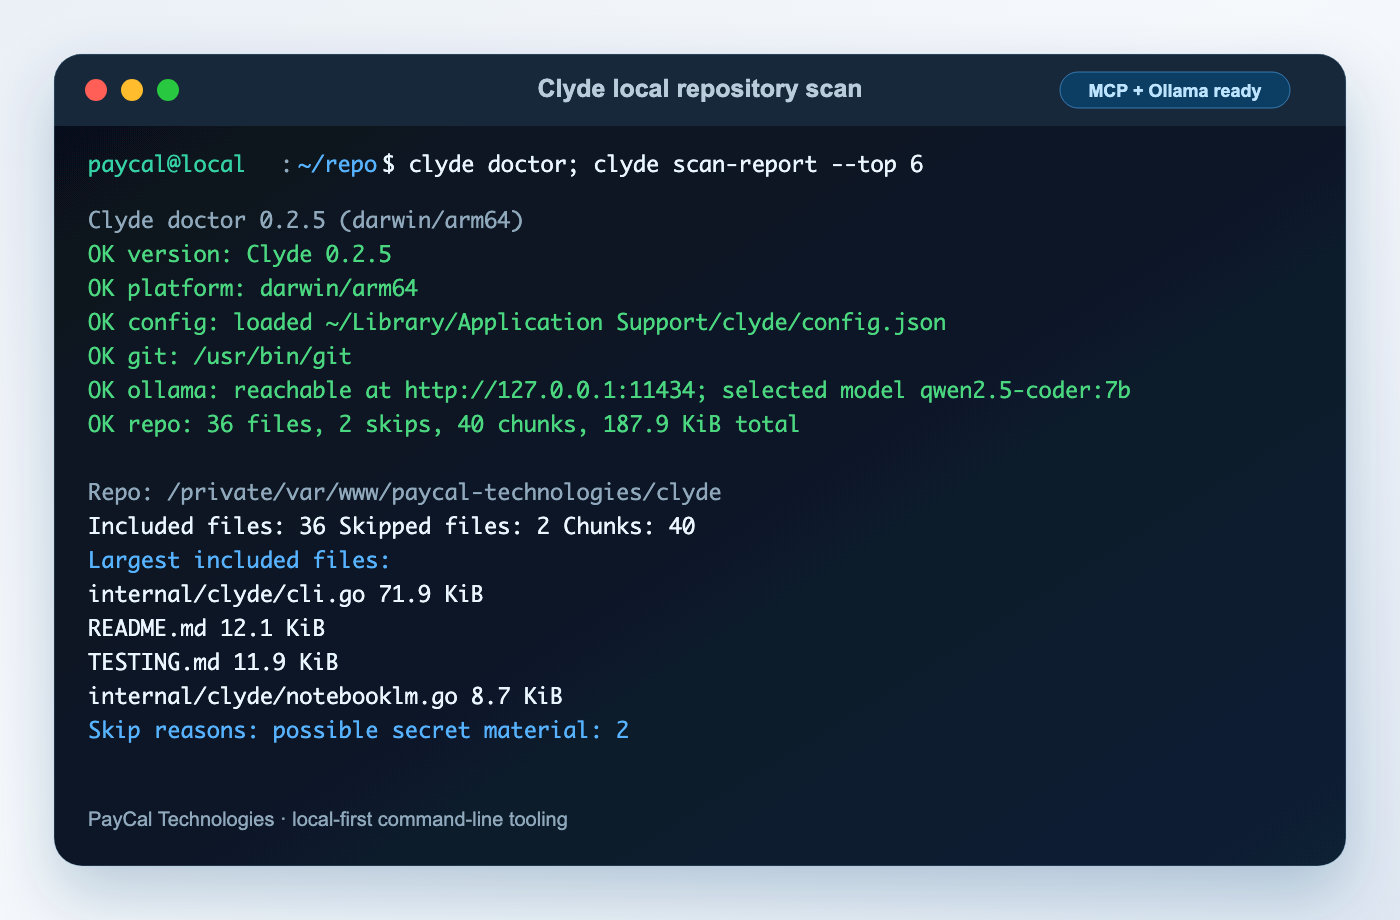
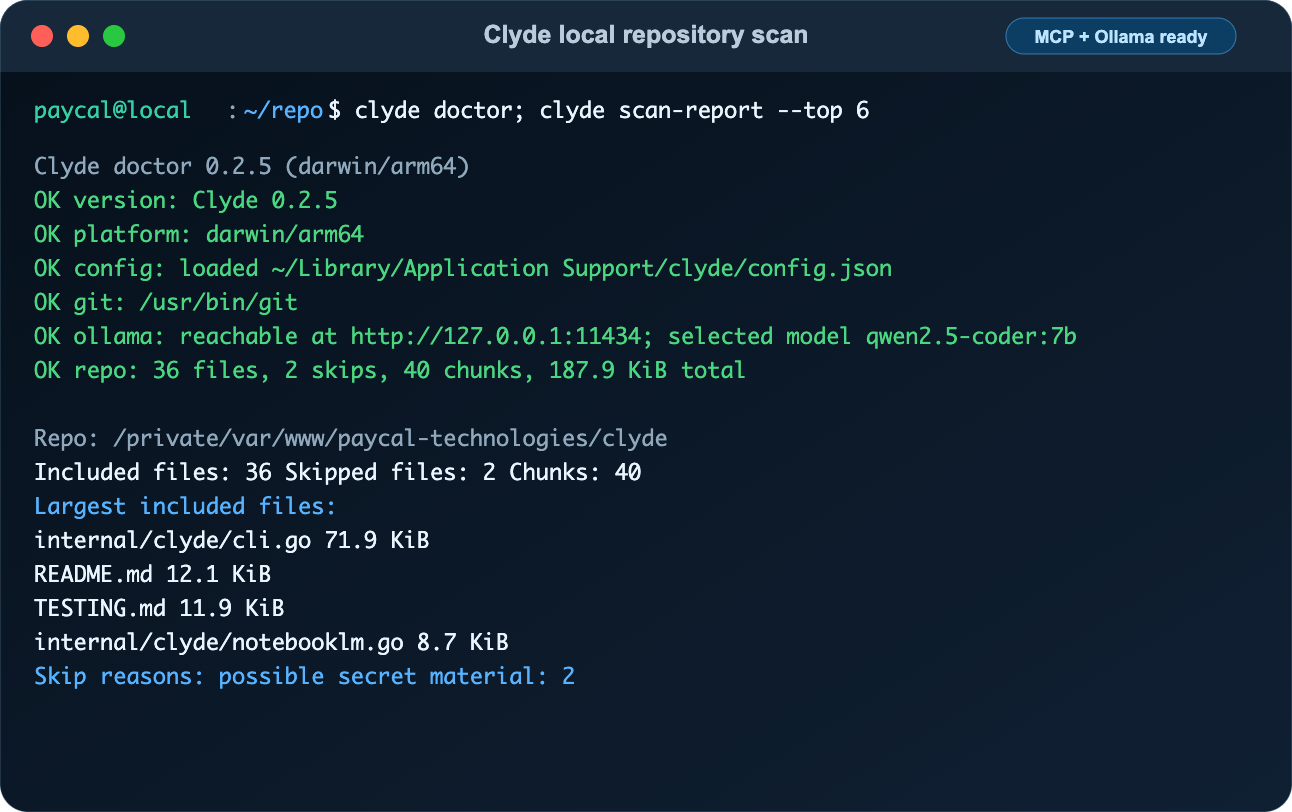
Remove testing terminal image padding

diff --git a/help/testing.html b/help/testing.html
@@ -10,7 +10,7 @@
     *{box-sizing:border-box}body{margin:0;background:var(--bg);color:var(--text);font:18px/1.6 ui-sans-serif,system-ui,-apple-system,BlinkMacSystemFont,"Segoe UI",sans-serif}main{max-width:980px;margin:0 auto;padding:48px 24px 72px}a{color:var(--accent)}h1{font-size:clamp(2.2rem,5vw,3.4rem);line-height:1.05;margin:0 0 12px}h2{margin-top:42px}.summary{color:var(--muted);font-size:1.12rem;max-width:72ch}.meta{display:grid;grid-template-columns:repeat(auto-fit,minmax(180px,1fr));gap:12px;margin:24px 0}.meta div,section,table{border:1px solid var(--line);border-radius:8px;background:var(--panel)}.meta div{padding:14px}.meta strong{display:block;color:var(--muted);font-size:.78rem;text-transform:uppercase;letter-spacing:.06em}section{padding:18px;margin:16px 0}pre{overflow:auto;background:var(--code-bg);color:var(--code-text);border-radius:8px;padding:16px}code{font-family:ui-monospace,SFMono-Regular,Menlo,Consolas,"Liberation Mono",monospace}table{width:100%;border-collapse:separate;border-spacing:0;overflow:hidden}th,td{text-align:left;vertical-align:top;border-bottom:1px solid var(--line);padding:10px 12px}tr:last-child th,tr:last-child td{border-bottom:0}th{color:var(--muted)}.links{display:flex;flex-wrap:wrap;gap:10px 18px;margin:24px 0}.footer{margin-top:48px;color:var(--muted);font-size:.95rem}
       .terminal-showcase{margin:24px 0}.terminal-showcase img{display:block;width:100%;height:auto;border:1px solid var(--line);border-radius:8px;box-shadow:0 16px 36px rgba(0,60,110,.16);background:var(--panel)}.terminal-showcase figcaption{margin-top:8px;color:var(--muted);font-size:.95rem}
   
-      .terminal-showcase{width:100%;max-width:100%;overflow:hidden}.terminal-showcase img{max-width:100%;height:auto}.lightbox-trigger{display:block;width:100%;max-width:100%;padding:0;border:0;background:transparent;color:inherit;text-align:inherit;cursor:zoom-in}.lightbox-trigger img{width:100%;max-width:100%;height:auto}.image-lightbox[hidden]{display:none}.image-lightbox{position:fixed;inset:0;z-index:1000;display:grid;place-items:center;padding:6px;background:rgba(3,10,18,.82)}.image-lightbox figure{margin:0;max-width:calc(100vw - 12px);max-height:calc(100vh - 12px)}.image-lightbox img{display:block;width:auto;max-width:100%;max-height:calc(100vh - 48px);height:auto;border:1px solid rgba(255,255,255,.18);border-radius:8px;box-shadow:0 24px 80px rgba(0,0,0,.5);background:#fff}.image-lightbox figcaption{margin-top:10px;color:#eaf6ff;text-align:center;font-size:.95rem;line-height:1.45}.image-lightbox-close{position:fixed;top:8px;right:8px;min-width:42px;min-height:42px;border:1px solid rgba(255,255,255,.28);border-radius:8px;background:rgba(8,17,29,.86);color:#eaf6ff;font:1.6rem/1 ui-sans-serif,system-ui,sans-serif;cursor:pointer}body.lightbox-open{overflow:hidden}
+      .terminal-showcase{width:100%;max-width:100%;overflow:hidden}.terminal-showcase img{max-width:100%;height:auto}.lightbox-trigger{display:block;width:100%;max-width:100%;padding:0;border:0;background:transparent;color:inherit;text-align:inherit;cursor:zoom-in}.lightbox-trigger img{width:100%;max-width:100%;height:auto}.image-lightbox[hidden]{display:none}.image-lightbox{position:fixed;inset:0;z-index:1000;display:grid;place-items:center;padding:6px;background:rgba(3,10,18,.82)}.image-lightbox figure{margin:0;max-width:calc(100vw - 12px);max-height:calc(100vh - 12px)}.image-lightbox img{display:block;width:auto;max-width:100%;max-height:calc(100vh - 12px);height:auto;border:1px solid rgba(255,255,255,.18);border-radius:8px;box-shadow:0 24px 80px rgba(0,0,0,.5);background:#fff}.image-lightbox figcaption{display:none}.image-lightbox-close{position:fixed;top:8px;right:8px;min-width:42px;min-height:42px;border:1px solid rgba(255,255,255,.28);border-radius:8px;background:rgba(8,17,29,.86);color:#eaf6ff;font:1.6rem/1 ui-sans-serif,system-ui,sans-serif;cursor:pointer}body.lightbox-open{overflow:hidden}
     </style>
 </head>
 <body>
@@ -19,7 +19,7 @@
     <h1>Clyde Testing Guide</h1>
     <p class="summary">How to test Clyde's repository scanning, bundling, CLI, config, Ollama, NotebookLM, protocol, and cross-platform behavior.</p>
     <figure class="terminal-showcase">
-      <img src="assets/clyde-terminal.png" alt="Clyde terminal showing doctor diagnostics and repository scan report output" width="1400" height="920" loading="eager">
+      <img src="assets/clyde-terminal.png" alt="Clyde terminal showing doctor diagnostics and repository scan report output" width="1292" height="812" loading="eager">
       <figcaption>Clyde in action: local diagnostics and scan reports give humans and agents a compact repository readiness picture.</figcaption>
     </figure>
     <div class="links">
